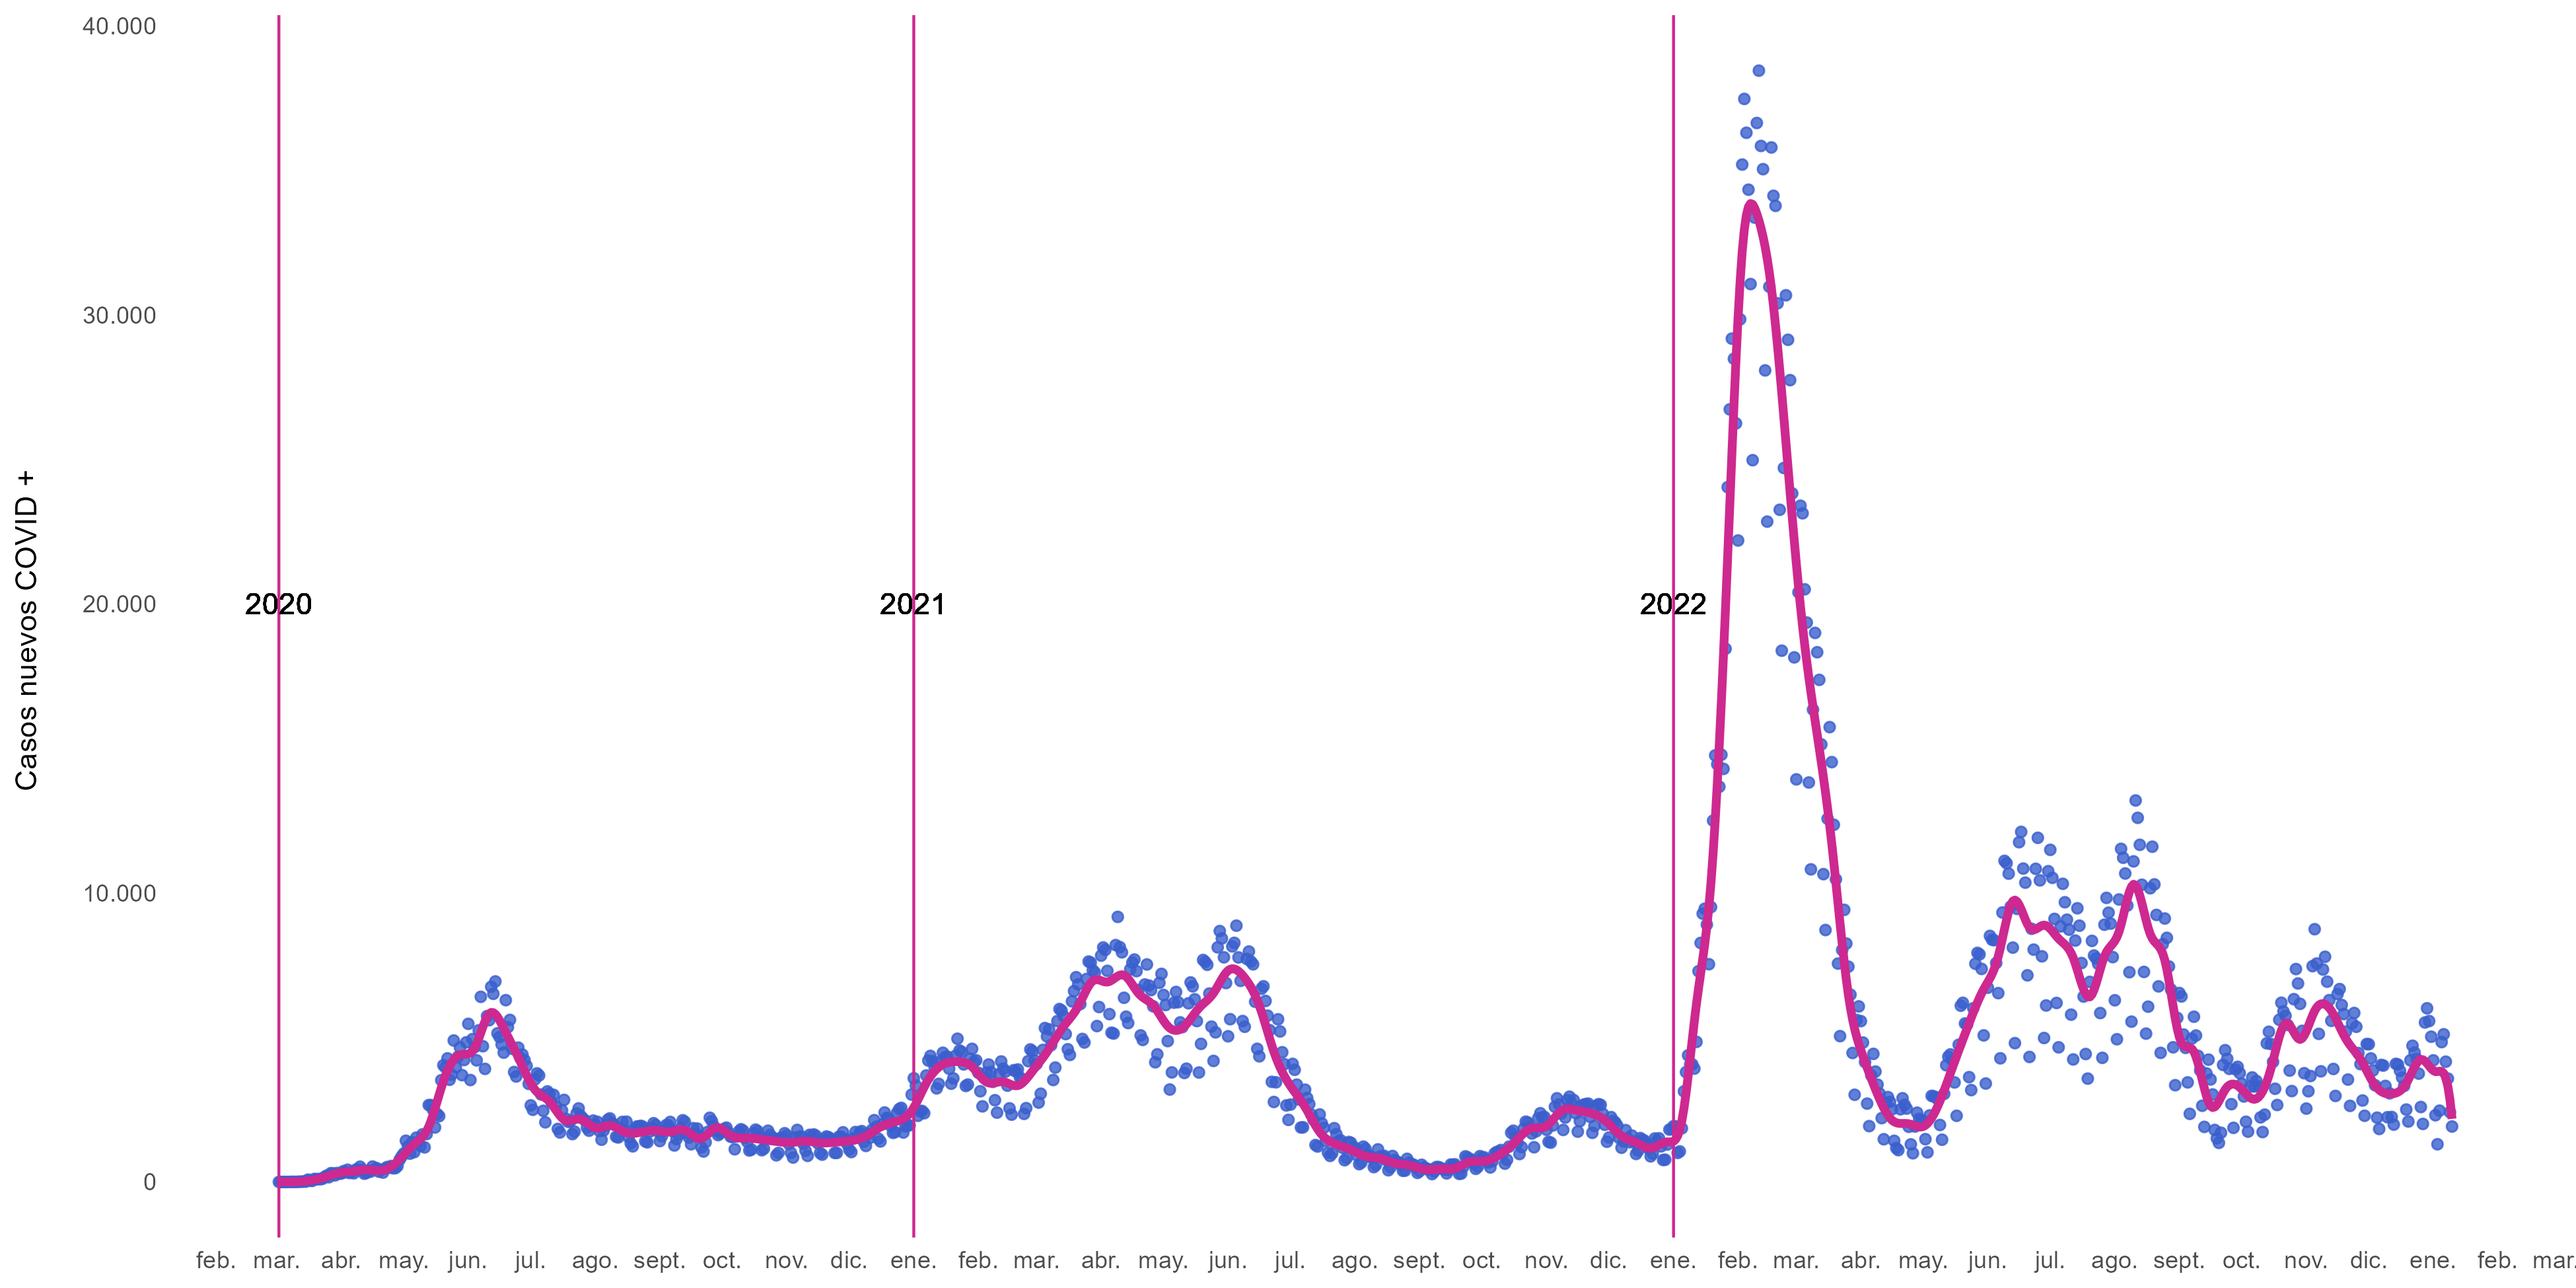
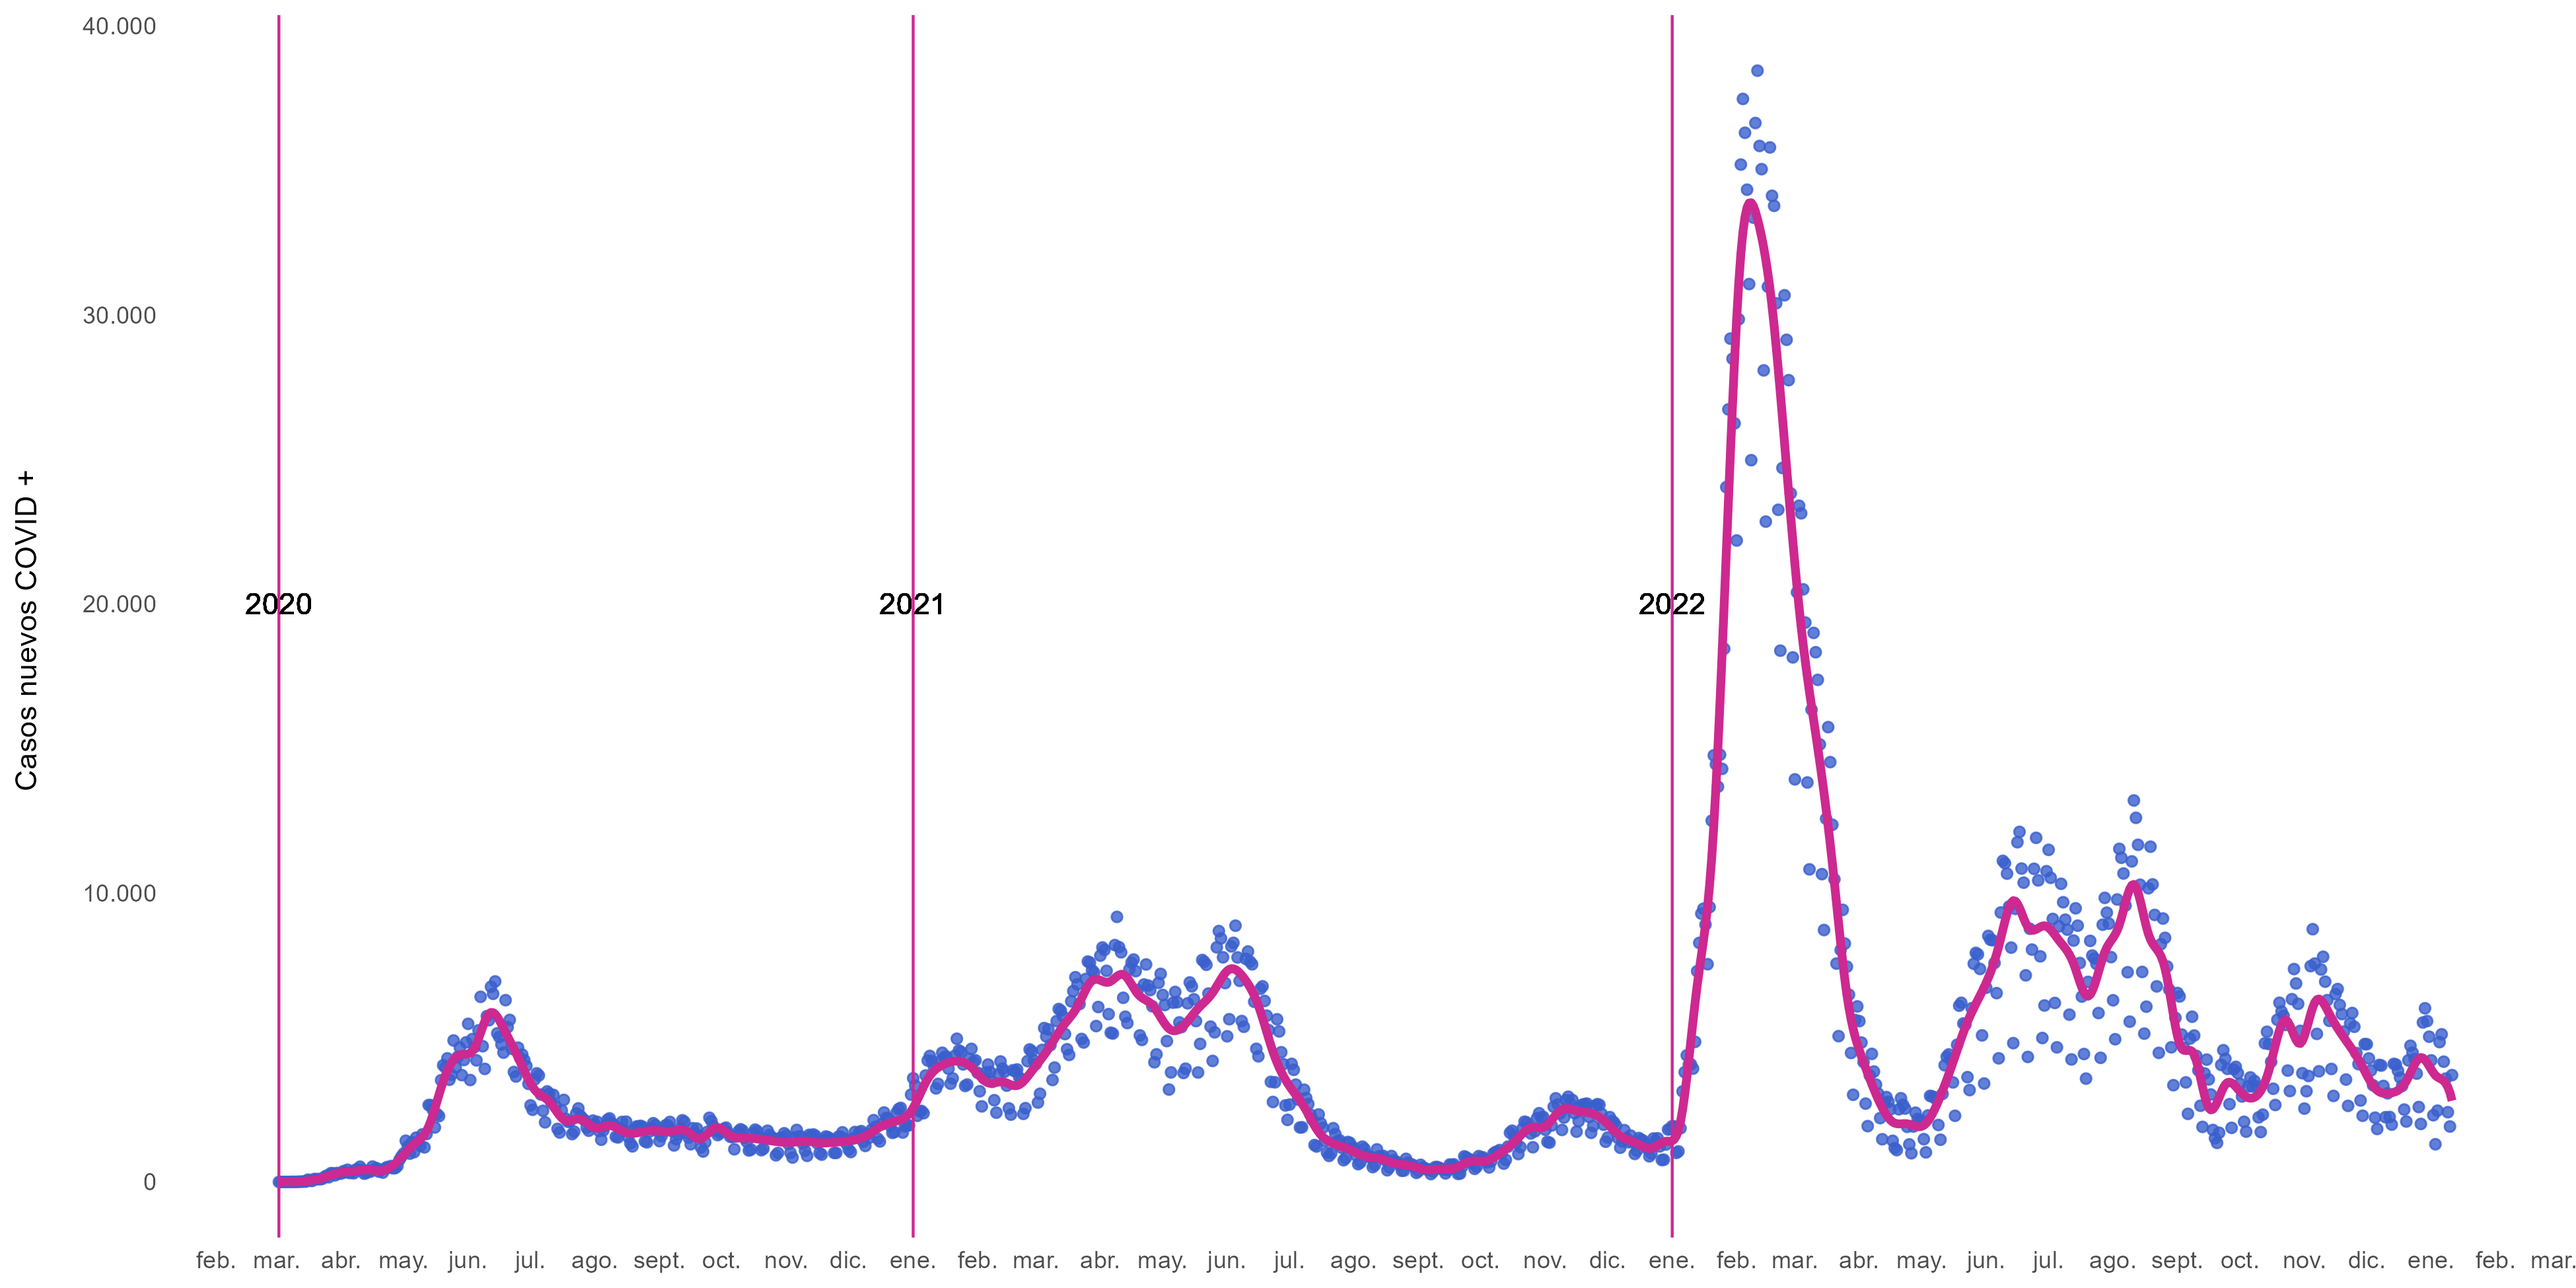
F5 11_01_2023

diff --git a/README.md b/README.md
@@ -1,6 +1,6 @@
 # covid_scl
 
-COVID's situation in Chile. **Last update: 24-11-2022**
+COVID's situation in Chile. **Last update: 11-01-2023**
 
 ## COVID stripes
 
